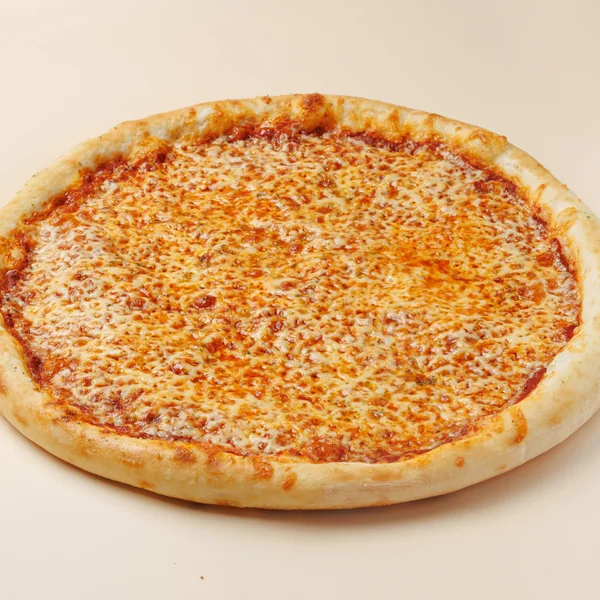
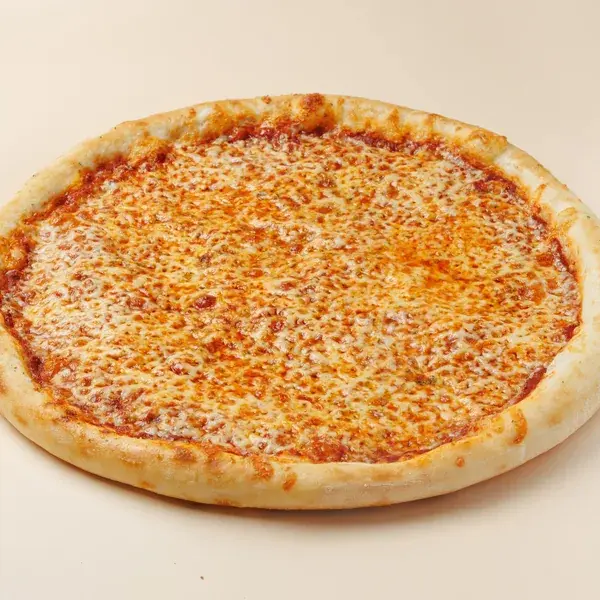
perf: optimize LCP image 1-card.webp (70.5KB → 50.4KB, -28%)
- Added sharp-based image optimization script
- Reduced file size by 20.1 KB through better WebP compression
- Expected LCP improvement: ~200-300ms on slow connections"

diff --git a/scripts/optimize-lcp-image.js b/scripts/optimize-lcp-image.js
@@ -1,0 +1,44 @@
+import sharp from 'sharp';
+import fs from 'node:fs';
+import path from 'node:path';
+import { fileURLToPath } from 'node:url';
+
+const __filename = fileURLToPath(import.meta.url);
+const __dirname = path.dirname(__filename);
+
+const inputPath = path.join(__dirname, '..', 'public', 'media', 'dishes', '1-card.webp');
+const outputPath = path.join(__dirname, '..', 'public', 'media', 'dishes', '1-card-optimized.webp');
+
+async function optimize() {
+  try {
+    if (!fs.existsSync(inputPath)) {
+      console.error('❌ Файл не найден:', inputPath);
+      console.log('Проверьте путь к изображению в public/media/dishes/');
+      process.exit(1);
+    }
+
+    const beforeStats = fs.statSync(inputPath);
+    const beforeSize = (beforeStats.size / 1024).toFixed(1);
+
+    console.log(`📊 Исходный размер: ${beforeSize} KB`);
+
+    await sharp(inputPath)
+      .webp({ quality: 75 })
+      .toFile(outputPath);
+
+    const afterStats = fs.statSync(outputPath);
+    const afterSize = (afterStats.size / 1024).toFixed(1);
+    const savings = ((1 - afterStats.size / beforeStats.size) * 100).toFixed(1);
+
+    console.log(`✅ Оптимизированный размер: ${afterSize} KB`);
+    console.log(`🎯 Экономия: ${savings}% (${(beforeSize - afterSize).toFixed(1)} KB)`);
+    console.log(`\n📝 Следующий шаг: замените оригинал`);
+    console.log(`   copy public\\media\\dishes\\1-card-optimized.webp public\\media\\dishes\\1-card.webp`);
+
+  } catch (err) {
+    console.error('❌ Ошибка:', err.message);
+    process.exit(1);
+  }
+}
+
+optimize();
